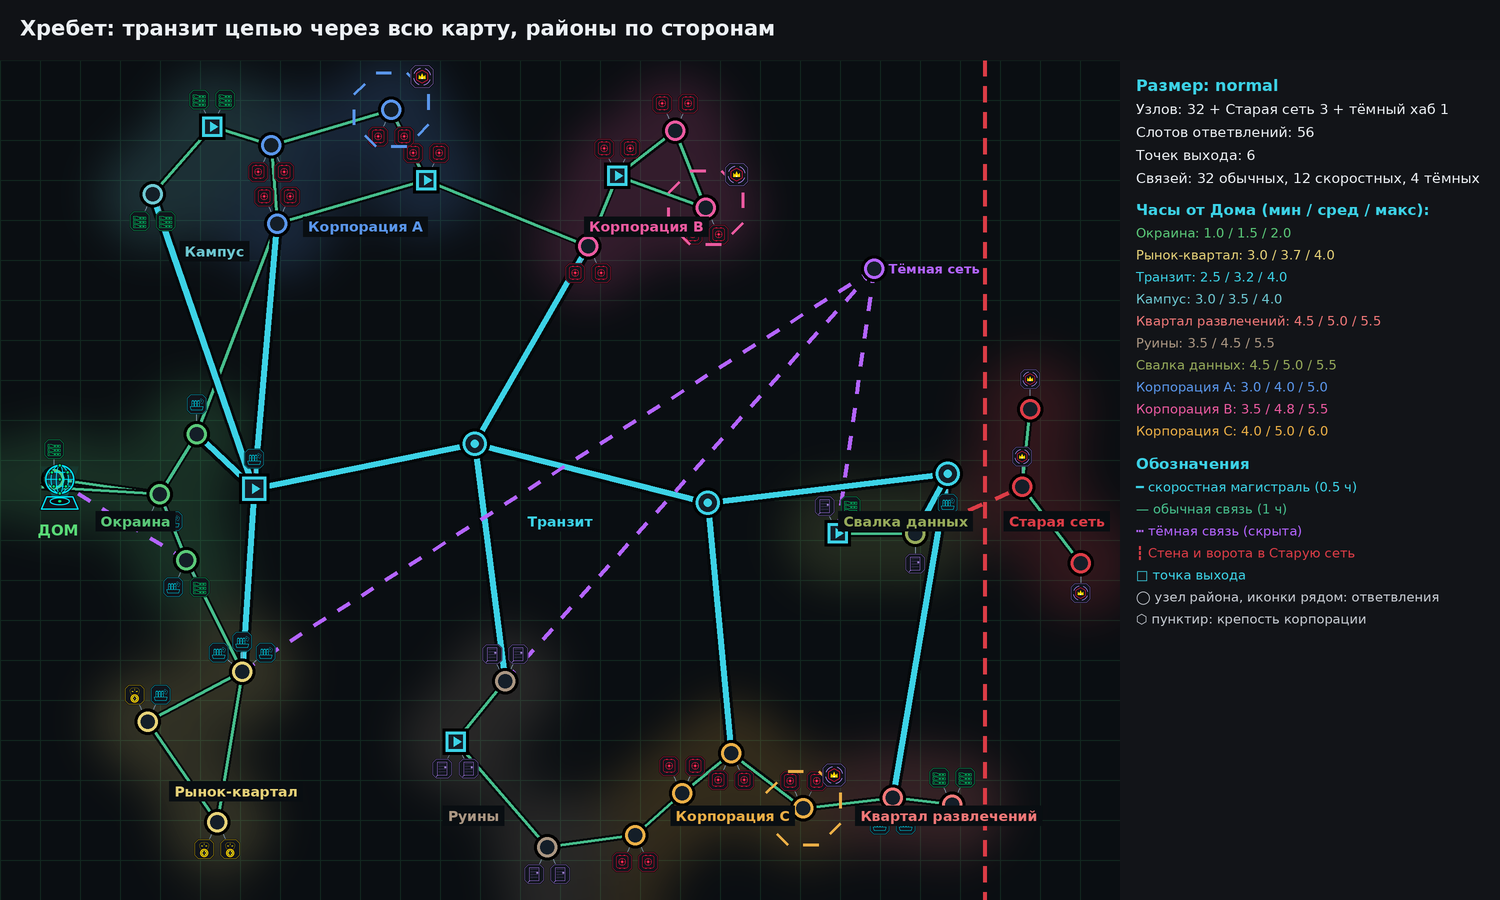
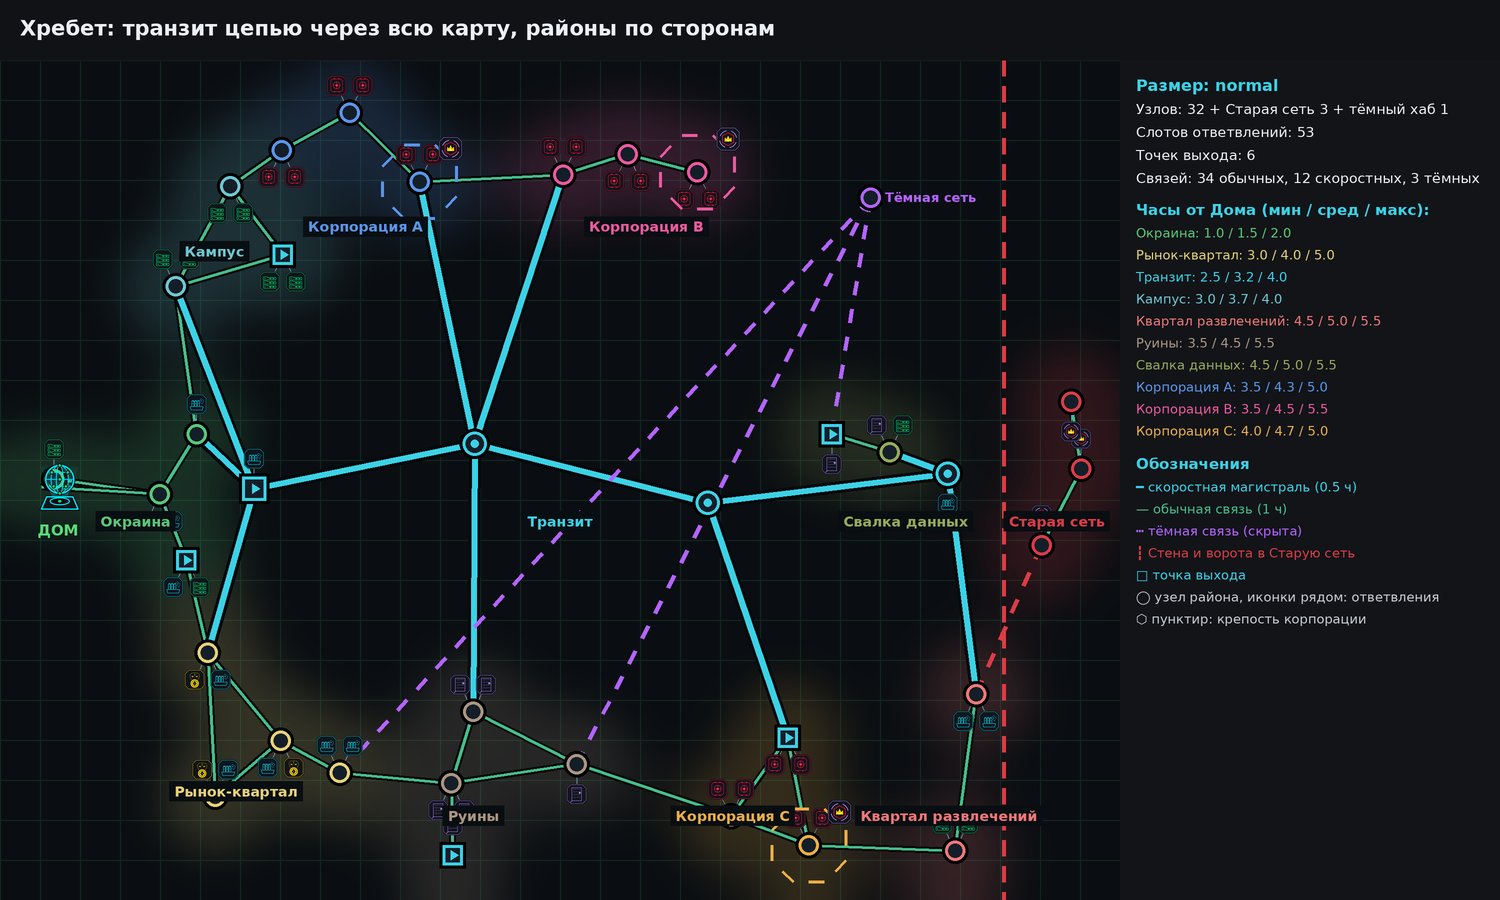
Concepts round 5: corporations start with about 30% of the map (3 nodes each), up to 45% by expansion; Neurotech is the neuron; Ideology style dropped; maps re-rendered
Claude-Session: https://claude.ai/code/session_01Ka5XPTHuWcij7UrAyJDGeW

diff --git a/tools/gen_cyber_maps.py b/tools/gen_cyber_maps.py
@@ -41,8 +41,8 @@ DISTRICTS = {
 SIZES = {
     # nodes per district; Old Net and the darknet hub come on top
     "small":  {"outskirts": 3, "hub": 3, "corpA": 3, "corpB": 3, "corpC": 3, "market": 3, "ruins": 2, "campus": 0, "fun": 2, "dump": 2, "oldnet": 2},
-    "normal": {"outskirts": 4, "hub": 4, "corpA": 4, "corpB": 4, "corpC": 4, "market": 3, "ruins": 3, "campus": 2, "fun": 2, "dump": 2, "oldnet": 3},
-    "large":  {"outskirts": 4, "hub": 5, "corpA": 4, "corpB": 4, "corpC": 4, "corpD": 4, "market": 4, "ruins": 3, "campus": 3, "fun": 3, "dump": 3, "oldnet": 3},
+    "normal": {"outskirts": 4, "hub": 4, "corpA": 3, "corpB": 3, "corpC": 3, "market": 4, "ruins": 4, "campus": 3, "fun": 2, "dump": 2, "oldnet": 3},
+    "large":  {"outskirts": 5, "hub": 5, "corpA": 3, "corpB": 3, "corpC": 3, "corpD": 3, "market": 5, "ruins": 4, "campus": 3, "fun": 3, "dump": 4, "oldnet": 3},
 }
 
 # district centres per layout, in a 0..1 x 0..0.66 field; outskirts always at the left edge, Old Net behind the wall on the right

diff --git a/docs/CYBERSPACE_V2.md b/docs/CYBERSPACE_V2.md
@@ -179,8 +179,8 @@
 | Размер | Узлов в основной сети | Корпораций | Слотов ответвлений | Точек выхода | До дальнего узла от Дома |
 |---|---|---|---|---|---|
 | Малая | 24 | 3 | ~45 | 5 | ~5.5 ч |
-| **Обычная** | **32** | 3 | ~52–56 | 6 | ~6–6.5 ч |
-| Большая | 41 | 4 | ~70 | 8 | ~6 ч |
+| **Обычная** | **32** | 3 | ~51–57 | 6 | ~5–5.5 ч |
+| Большая | 41 | 4 | ~68 | 8 | ~6 ч |
 
 Сверху к любой карте: Старая сеть (2–3 узла за Стеной) и хаб тёмной сети (1 узел). Слотов ответвлений больше, чем узлов, примерно в 1.7 раза; занято из них около 70%, остальное пусто и заселяется событиями. Это около 35–40 целей для нырка одновременно (сейчас 7).
 
@@ -190,17 +190,19 @@
 |---|---|---|---|
 | **Окраина** | 4 | рынки, архивы, по 1–2 | старт рядом с Домом, слабая защита, учебная зона; 1–2 ч от Дома |
 | **Транзит** (магистраль) | 4 | 0–1 | скоростные связи между районами (0.5 ч), перекрёсток событий (патрули, заторы, вторжения) |
-| **Корпоративный район** ×3 | 4 каждый (12) | корп-хранилища, по 2 | территория корпорации, её крепость (мини-зона), Тревога и захваты |
-| **Рынок-квартал** | 3 | рынки, тёмные биржи, 2–3 | серебро и cyberdata, дешёвые переходы внутри квартала, слухи |
-| **Руины** | 3 | заброшенные серверы | дикие ИИ, «забытые кэши», руины рухнувшей корпорации сюда же |
-| **Кампус** (новый) | 2 | архивы | научные данные: очки исследований и чертежи, слабая защита, но «тихий» след ценится |
+| **Корпоративный район** ×3 | 3 каждый (9) | корп-хранилища, по 2 | территория корпорации, её крепость (мини-зона), Тревога и захваты |
+| **Рынок-квартал** | 4 | рынки, тёмные биржи, 2–3 | серебро и cyberdata, дешёвые переходы внутри квартала, слухи |
+| **Руины** | 4 | заброшенные серверы | дикие ИИ, «забытые кэши», руины рухнувшей корпорации сюда же |
+| **Кампус** (новый) | 3 | архивы | научные данные: очки исследований и чертежи, слабая защита, но «тихий» след ценится |
 | **Квартал развлечений** (новый) | 2 | рынки, архивы | брейнданс-клубы: чипы и уникальные записи в добыче, контракты Музы и «Чистая лаборатория» |
 | **Свалка данных** (новый) | 2 | заброшенные серверы, архивы | мусорные данные, много мелкой добычи и шанс осколка ИИ, высокий шанс ловушек |
 | **Тёмная сеть** (поверх всех) | хаб 1 | тёмные биржи | скрытые связи без следа, чёрный рынок, дорога в Руины и на Свалку |
 | **Старая сеть** (новый, эндгейм) | 2–3 за Стеной | ядра древних систем | легендарная добыча (модули ядра, уникальные записи, ИИ-осколки высокого качества), Black ICE 10+; ворота Стены открываются после первого взятого корп-ядра и требуют отдельного нырка |
 | Орбита (только Odyssey) | 2–3 | орбитальные станции | доступна с гравикорабля (CONCEPTS_10, раздел 9) |
 
-Итого для обычной карты: 4 + 4 + 12 + 3 + 3 + 2 + 2 + 2 = **32 узла**; ещё 3 узла Старой сети и хаб тёмной сети. Большая карта добавляет четвёртую корпорацию и по узлу в остальные районы, малая убирает Кампус и по узлу у корпораций.
+Итого для обычной карты: 4 + 4 + 9 + 4 + 4 + 3 + 2 + 2 = **32 узла**; ещё 3 узла Старой сети и хаб тёмной сети. Большая карта: четвёртая корпорация и больше нейтральных узлов (Окраина 5, Транзит 5, корпорации 4 × 3, Рынок 5, Руины 4, Кампус 3, Развлечения 3, Свалка 4 = 41). Малая убирает Кампус.
+
+**Доля корпораций (вопрос Maxim: не займут ли 4 корпорации слишком много места).** На старте корпорации держат около **30%** узлов на любой карте: обычная 9 из 32 (28%), большая 12 из 41 (29%), малая 9 из 24 (38%, на малой карте мало места). Четвёртая корпорация на большой карте не съедает нейтральные районы: их там тоже больше. Дальше доля живёт: Сильные корпорации захватывают соседние узлы, предел около **45%** карты (захват не идёт дальше этого предела и никогда не берёт Окраину, Транзит и Старую сеть); крах корпорации освобождает её район.
 
 После краха корпорации её район остаётся на месте и на время становится «руинами» (раздел 5.3), потом его занимает новая корпорация.
 
@@ -221,14 +223,14 @@
 
 | Раскладка | Окраина | Рынок | Транзит | Руины | Корпорации | Самый дальний узел |
 |---|---|---|---|---|---|---|
-| Кольцо | 1.5 | 4.0 | 2.8 | 2.7 | 3.8–5.0 | 6.5 |
-| Хребет | 1.5 | 3.7 | 3.2 | 4.5 | 4.0–5.0 | 6.0 |
-| Архипелаг | 1.5 | 3.7 | 3.0 | 4.2 | 4.0–5.0 | 6.5 |
-| Мегаполис | 1.5 | 2.7 | 3.0 | 3.3 | 3.5–4.8 | 5.5 |
+| Кольцо | 1.5 | 3.8 | 3.0 | 3.1 | 3.7–4.5 | 5.5 |
+| Хребет | 1.5 | 4.0 | 3.2 | 4.5 | 4.3–4.7 | 5.5 |
+| Архипелаг | 1.5 | 4.0 | 3.0 | 4.2 | 3.7–4.7 | 5.0 |
+| Мегаполис | 1.5 | 3.0 | 3.0 | 3.2 | 4.0–4.2 | 5.0 |
 
 Что это значит для игры:
 - Окраина рядом: 1–2 часа, вылазка туда почти как сейчас.
-- Корпорации в 4–5 часах: поход туда занимает полдня работы раннера (туда, нырок на паузе, выход в ближайшей точке выхода). Сеанс в сутки укладывается без сопроцессора Vitality.
+- Корпорации в 4–4.5 часах: поход туда занимает полдня работы раннера (туда, нырок на паузе, выход в ближайшей точке выхода). Сеанс в сутки укладывается без сопроцессора Vitality.
 - Старая сеть и дальние руины: 6+ часов, плюс нырок к воротам. Это экспедиции с Vitality и запасом нужд.
 - Точки выхода (6 на обычной карте) делают обратный путь бесплатным, а свои точки выхода (до 3, у фиксера-брокера) сокращают путь туда.
 

diff --git a/docs/CONCEPTS_10.md b/docs/CONCEPTS_10.md
@@ -68,6 +68,15 @@
 | Топ-100 | одобрен полностью |
 | Дальше | стиль Ideology: [IDEOLOGY_STYLE.md](IDEOLOGY_STYLE.md), два направления на выбор (`35-ideology-style-directions.png`) |
 
+### Раунд 5
+
+| Тема | Решение |
+|---|---|
+| Карта | предложения облачной сессии приняты (большая по умолчанию, раскладка по сиду с весом Кольца, окно выбора при первом входе); доля корпораций на старте около 30%, расширение до 45% (CYBERSPACE_V2, раздел 9.2) |
+| Нейротех | **вариант A: нейрон** |
+| Стиль Ideology | **отменён** («всё мимо»); `IDEOLOGY_STYLE.md` оставлен для истории. Мемы, вопросы, прецепты и ритуалы (раздел 7) это не затрагивает |
+| Дальше | **разработка**: в отдельной ветке на GitHub, в `main` смерджим потом |
+
 ---
 
 ## 1. Защита узла

diff --git a/docs/IDEOLOGY_STYLE.md b/docs/IDEOLOGY_STYLE.md
@@ -1,5 +1,7 @@
 # Стиль Ideology «Киберпанк»
 
+> **Отменено Maxim (2026-10-07): «по стилю идеологии всё мимо, забей».** Файл оставлен для истории; мемы, вопросы, прецепты и ритуалы из CONCEPTS_10 (раздел 7) это не отменяет.
+
 2026-10-07, облачная сессия. Maxim: «можно плавно переходить к стилю Ideology». Кода нет. Мемы, вопросы, прецепты и ритуалы описаны в [CONCEPTS_10.md](CONCEPTS_10.md), раздел 7. Правила графики: [ART_STYLE.md](ART_STYLE.md) (вещи рисуются в манере В: приглушённый корпус, чёрный контур, один светящийся акцент).
 
 ## 1. Из чего в RimWorld состоит стиль (сверено по справочной сборке 1.6)
